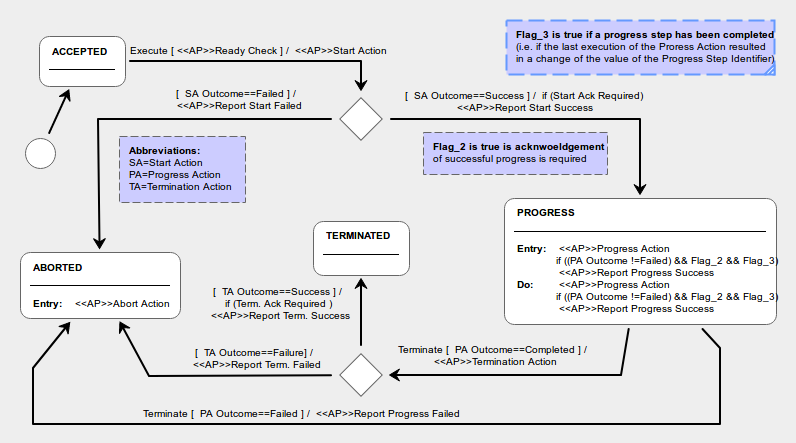
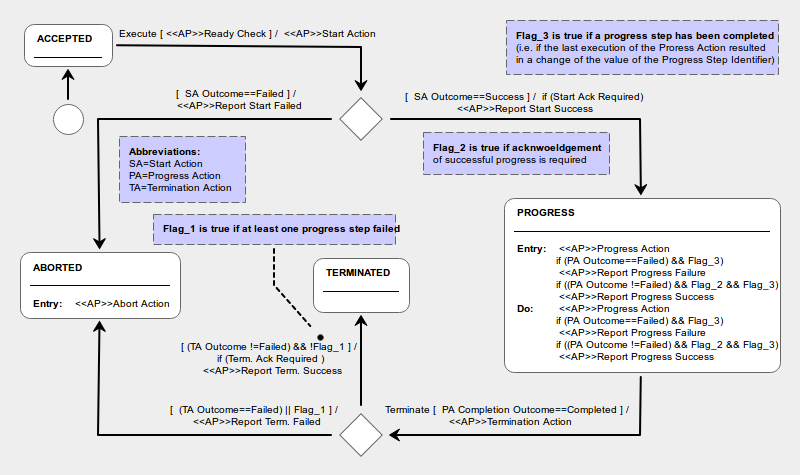
Modified management of progress action completion status (Issue #42)
The change in the logic for the progress action of an InCommand is driven by
the update of PUS. In the new PUS (April 2016), the progress action logic is
as follows.

During execution, the progress steps are executed in sequence and, if the step's
execution is successful, a (1,5) is generated; if, instead, the step's execution
has failed, a (1,6) is generated (assuming that the acknowledgement of
successful progress was enabled for the command). At the end of the execution of
all the steps, a (1,8) is generated if the command's post-conditions are not
satisfied or if any of its progress steps have failed. Otherwise, a (1,7) may be
generated if it was enabled for that command. Note that this means that
generation of a (1,8) does not necessarily mean that a command's execution has
completely failed. It may simply mean that some of its progress steps have
failed.

diff --git a/src/InCmd/CrFwInCmd.c b/src/InCmd/CrFwInCmd.c
@@ -107,17 +107,18 @@ static void ReportTerminationSuccess(FwSmDesc_t smDesc);
 static FwSmBool_t IsReady(FwSmDesc_t smDesc);
 
 /**
- * Guard on transition from PROGRESS to ABORTED.
+ * Guard on the transition from CPS2 to TERMINATED.
  * @param smDesc the descriptor of the InCommand state machine
- * @return 1 if the <code>outcome</code> field is different from 1 and 2; false otherwise.
+ * @return 1 if the outcome of the termination action was "success" and
+ *           no progress steps have failed
  */
-static FwSmBool_t IsSmOutcomeNotTwo(FwSmDesc_t smDesc);
+static FwSmBool_t IsTerminationSuccess(FwSmDesc_t smDesc);
 
 /* --------------------------------------------------------------------------------- */
 FwSmDesc_t CrFwInCmdMakeBase() {
 	FwSmCounterS1_t nOfStates = 4;				/* Number of states */
 	FwSmCounterS1_t nOfChoicePseudoStates = 2;	/* Number of choice pseudo-states */
-	FwSmCounterS1_t nOfTrans = 8;				/* Number of transitions */
+	FwSmCounterS1_t nOfTrans = 7;				/* Number of transitions */
 	FwSmCounterS1_t nOfActions = 9;				/* Number of actions */
 	FwSmCounterS1_t nOfGuards = 4;				/* Number of guards */
 	FwSmCounterS1_t CPS_1 = 1;					/* Identifier of first choice pseudo-state */
@@ -145,10 +146,8 @@ FwSmDesc_t CrFwInCmdMakeBase() {
 	FwSmAddTransCpsToSta(esm, CPS_1, CR_FW_INCMD_STATE_PROGRESS, &ReportStartSuccess, &CrFwIsSmOutcomeOne);
 	FwSmAddTransCpsToSta(esm, CPS_1, CR_FW_INCMD_STATE_ABORTED, &ReportStartFailed, NULL);	/* Else Guard */
 	FwSmAddTransStaToCps(esm, CR_FW_INCMD_TR_TERMINATE, CR_FW_INCMD_STATE_PROGRESS, CPS_2,
-	                     &DoTerminationAction, &CrFwIsSmOutcomeOne);
-	FwSmAddTransStaToSta(esm, CR_FW_INCMD_TR_TERMINATE, CR_FW_INCMD_STATE_PROGRESS, CR_FW_INCMD_STATE_ABORTED,
-	                     &ReportProgressFailed, &IsSmOutcomeNotTwo);
-	FwSmAddTransCpsToSta(esm, CPS_2, CR_FW_INCMD_STATE_TERMINATED, &ReportTerminationSuccess, &CrFwIsSmOutcomeOne);
+	                     &DoTerminationAction, &CrFwInCmdIsProgressActionCompleted);
+	FwSmAddTransCpsToSta(esm, CPS_2, CR_FW_INCMD_STATE_TERMINATED, &ReportTerminationSuccess, &IsTerminationSuccess);
 	FwSmAddTransCpsToSta(esm, CPS_2, CR_FW_INCMD_STATE_ABORTED, &ReportTerminationFailed, NULL);	/* Else Guard */
 
 	FwSmEmbed(baseInCmdSmDesc, CR_FW_BASE_STATE_CONFIGURED, esm);
@@ -210,6 +209,16 @@ CrFwPckt_t CrFwInCmdGetPcktFromPrDesc(FwPrDesc_t prDesc) {
     CrFwCmpData_t* cmpData = (CrFwCmpData_t*)FwPrGetData(prDesc);
     CrFwInCmdData_t* cmpSpecificData = (CrFwInCmdData_t*)(cmpData->cmpSpecificData);
     return cmpSpecificData->pckt;
+}
+
+/* --------------------------------------------------------------------------------- */
+FwSmBool_t IsTerminationSuccess(FwSmDesc_t smDesc) {
+    CrFwCmpData_t* cmpData = (CrFwCmpData_t*)FwSmGetData(smDesc);
+    CrFwInCmdData_t* cmpSpecificData = (CrFwInCmdData_t*)(cmpData->cmpSpecificData);
+    if (cmpData->outcome == 1)
+        if (cmpSpecificData->nOfFailedProgressSteps == 0)
+            return 1;
+    return 0;
 }
 
 /* --------------------------------------------------------------------------------- */
@@ -297,19 +306,26 @@ static void DoProgressAction(FwSmDesc_t smDesc) {
 	prevStep = cmpSpecificData->progressStepId;
 	cmpSpecificData->progressAction(smDesc);
 	if (cmpData->outcome != 1)
-		if (cmpData->outcome != 2)
-			return;		/* The Progress Action has failed */
+		if (cmpSpecificData->progressStepId != prevStep) {
+		    CrFwRepInCmdOutcome(crCmdAckPrgFail, cmpData->instanceId,
+		                        CrFwPcktGetServType(cmpSpecificData->pckt),
+		                        CrFwPcktGetServSubType(cmpSpecificData->pckt),
+		                        CrFwPcktGetDiscriminant(cmpSpecificData->pckt),
+		                        cmpData->outcome, smDesc);
+		    cmpSpecificData->nOfFailedProgressSteps++;  /* Increment counter of failed progress steps */
+		    return;     /* Progress step has failed */
+		}
 
-	/* Check if a progress step has been completed */
-	if (cmpSpecificData->progressStepId == prevStep)
-	    return;
-
-	if (CrFwPcktIsProgressAck(cmpSpecificData->pckt) == 1)
-		CrFwRepInCmdOutcome(crCmdAckPrgSucc, cmpData->instanceId,
-		                    CrFwPcktGetServType(cmpSpecificData->pckt),
-		                    CrFwPcktGetServSubType(cmpSpecificData->pckt),
-		                    CrFwPcktGetDiscriminant(cmpSpecificData->pckt),
-		                    cmpData->outcome, smDesc);
+    if (cmpData->outcome == 1)
+        if (cmpSpecificData->progressStepId != prevStep)
+            if (CrFwPcktIsProgressAck(cmpSpecificData->pckt) == 1) {
+                CrFwRepInCmdOutcome(crCmdAckPrgSucc, cmpData->instanceId,
+                                    CrFwPcktGetServType(cmpSpecificData->pckt),
+                                    CrFwPcktGetServSubType(cmpSpecificData->pckt),
+                                    CrFwPcktGetDiscriminant(cmpSpecificData->pckt),
+                                    cmpData->outcome, smDesc);
+                return; /* Progress step has succeeded */
+            }
 }
 
 /* --------------------------------------------------------------------------------- */
@@ -326,15 +342,6 @@ static void DoTerminationAction(FwSmDesc_t smDesc) {
 	CrFwInCmdData_t* cmpSpecificData = (CrFwInCmdData_t*)(cmpData->cmpSpecificData);
 
 	cmpSpecificData->terminationAction(smDesc);
-}
-
-/* --------------------------------------------------------------------------------- */
-static FwSmBool_t IsSmOutcomeNotTwo(FwSmDesc_t smDesc) {
-	CrFwCmpData_t* cmpData = (CrFwCmpData_t*)FwSmGetData(smDesc);
-	if (cmpData->outcome != 2)
-		return 1;
-
-	return 0;
 }
 
 /* --------------------------------------------------------------------------------- */
@@ -426,4 +433,25 @@ CrFwPckt_t CrFwInCmdGetPckt(FwSmDesc_t smDesc) {
 	CrFwCmpData_t* cmpData = (CrFwCmpData_t*)FwSmGetData(smDesc);
 	CrFwInCmdData_t* cmpSpecificData = (CrFwInCmdData_t*)(cmpData->cmpSpecificData);
 	return cmpSpecificData->pckt;
+}
+
+/* --------------------------------------------------------------------------------- */
+CrFwBool_t CrFwInCmdIsProgressActionCompleted(FwSmDesc_t smDesc) {
+    CrFwCmpData_t* cmpData = (CrFwCmpData_t*)FwSmGetData(smDesc);
+    CrFwInCmdData_t* cmpSpecificData = (CrFwInCmdData_t*)(cmpData->cmpSpecificData);
+    return cmpSpecificData->isProgressActionCompleted;
+}
+
+/* --------------------------------------------------------------------------------- */
+void CrFwInCmdSetProgressActionCompleted(FwSmDesc_t smDesc, CrFwBool_t progressActionCompleted) {
+    CrFwCmpData_t* cmpData = (CrFwCmpData_t*)FwSmGetData(smDesc);
+    CrFwInCmdData_t* cmpSpecificData = (CrFwInCmdData_t*)(cmpData->cmpSpecificData);
+    cmpSpecificData->isProgressActionCompleted = progressActionCompleted;
+}
+
+/* --------------------------------------------------------------------------------- */
+CrFwProgressStepId_t CrFwInCmdGetNOfFailedProgressSteps(FwSmDesc_t smDesc) {
+    CrFwCmpData_t* cmpData = (CrFwCmpData_t*)FwSmGetData(smDesc);
+    CrFwInCmdData_t* cmpSpecificData = (CrFwInCmdData_t*)(cmpData->cmpSpecificData);
+    return cmpSpecificData->nOfFailedProgressSteps;
 }

diff --git a/doc/cordetfw/CrFwCmdConcept.tex b/doc/cordetfw/CrFwCmdConcept.tex
@@ -54,7 +54,7 @@ Every time a user application issues a command belonging to a certain destinatio
 Command execution goes through four stages: acceptance, start, progress, and termination (see section 5.1.4). This attribute determines whether successful completion of each of these stages should be reported to the sender of the command. Note that failure to complete a stage is reported unconditionally.
 
 \item[Progress Step Identifier]\hfill\\
-On the service provider side, a command is executed in a sequence of progress steps. Each progress step is identified by a positive integer (but note that step identifiers are not necessarily in sequence). This attributes holds the identifier of the current step. A command must have at least one step. This attribute is only meaningful on the service provider side.
+On the service provider side, a command is executed in a sequence of progress steps. Each progress step is identified by a positive integer (but note that step identifiers are not necessarily in sequence). This attribute holds the identifier of the current step. A command must have at least one step. This attribute is only meaningful on the service provider side.
 
 \item[Command Parameters]\hfill\\
 Some commands may require parameters to fully specify the actions and checks that they encapsulate. The “Command Parameters” attribute holds the value of these parameters. This attribute consists of an ordered sequence of items of primitive type. 
@@ -115,9 +115,11 @@ The following actions are defined for a command on the service provider side:
 The start action is executed after the start check has been passed. The start action encapsulates one-off initialization actions that must be performed at the beginning of a command's execution. 
 The start action has an outcome which is either “success” or “failed”. If the outcome of the start action is “failed”, the command is aborted. 
 \item[Progress Action]\hfill\\
-Commands execute in one or more execution steps. The progress action encapsulates the actions performed in one execution step. The progress action is executed the first time after the start action has terminated and it is then executed again until either it fails or it completes. 
-The progress action has an outcome which is either “continue”, or “completed”, or “failed”. If the outcome of the progress action is “continue”, another execution step will be executed. If the outcome of the progress action is “completed”, all execution steps have been completed and the termination action is executed. If the outcome of the progress action is “failed”, the command is aborted. 
-The progress action updates the progress step identifier. A "progress step" is a set of logically related execution steps which are executed in sequence.
+Commands execute in one or more execution steps. The progress action encapsulates the actions performed in one execution step. The progress action is executed the first time after the start action has terminated and it is then executed again until either it fails or it completes.
+ 
+The progress action has two outcomes: a completion outcome which can be either "completed" or "not completed" and a success outcome which can be either "success" or "failed". If the completion outcome is "completed", then all execution steps have been completed and the termination action is executed. If, instead, it is "not completed", then another execution step will be executed. The success outcome determines the kind of acknowledge reports which are generated for the progress action. 
+
+Finally, the progress action updates the progress step identifier. A "progress step" is a set of logically related execution steps which are executed in sequence.
 \item[Termination Action]\hfill\\
 The termination action is executed after all the progress steps have been successfully executed. The termination action encapsulates one-off finalization actions that must be performed before the command is terminated.
 The termination action has an outcome which is either “success” or “failed”. If the outcome of the termination action is “failed”, the command is aborted. 

diff --git a/doc/cordetfw/CrFwInCommand.tex b/doc/cordetfw/CrFwInCommand.tex
@@ -19,11 +19,11 @@ If the Ready Check is failed (i.e. if the Ready Check indicates that the command
 
 If the Ready Check is passed (i.e. if the Ready Check indicates that the command is ready to start execution), the command executes the Start Action and, depending on its outcome, it makes a transition either to state ABORTED or to state PROGRESS.  
 
-In state PROGRESS, the command executes its Progress Action. If the outcome of the Progress Action is “continue” (indicating that the command has not yet completed execution), the InCommand remains in state PROGRESS. If, instead, the outcome of the Progress Action is “completed” (indicating that the command has completed execution), then the InCommand moves to state TERMINATED. If, finally, the outcome of the Progress Action is “failed” (indicating that the command has encountered a failure), then the InCommand moves to state ABORTED. 
+In state PROGRESS, the command executes its Progress Action. If the completion outcome of the Progress Action is not completed” (indicating that the command has not yet completed execution), the InCommand remains in state PROGRESS. If, instead, the completiong outcome of the Progress Action is “completed” (indicating that all progress steps have been executed), then the InCommand moves out of the PROGRESS state and executes its termination action. The outcome of the termination action determines whether the command enters TERMINATED (to indicate a nominal end of the command) or ABORTED (to indicate that either one or more of its progress steps or its termination actions have failed).  
 
 The Progress Action is responsible for updating the Progress Step Identifier. A change in the value of this identifier marks the end of a Progress Step. A Progress step is a set logically related execution steps which are executed in sequence.
 
-If the command is neither terminated nor aborted in the first Execute-Terminate cycle, it will be sent further pairs of Execute-Terminate commands by its InManager and will repeat the behaviour described in the previous paragraph.  
+If the command is neither terminated nor aborted in the first Execute-Terminate cycle, it will be sent further pairs of Execute-Terminate commands by its InManager and will repeat the behaviour described in the previous paragraphs.  
 
 The InCommand component is responsible for generating acknowledge reports when: the command starts execution; a progress step has failed or has been completed; or its execution terminates. The generation of the acknowledge reports is an adaptation point for the InCommand. Note that the acknowledge report for the command acceptance is generated by the InLoader component, see section \ref{sec:InLoader}.
 

diff --git a/src/InCmd/CrFwInCmd.h b/src/InCmd/CrFwInCmd.h
@@ -151,6 +151,54 @@ CrFwProgressStepId_t CrFwInCmdGetProgressStepId(FwSmDesc_t smDesc);
 void CrFwInCmdSetProgressStepId(FwSmDesc_t smDesc, CrFwProgressStepId_t stepId);
 
 /**
+ * Return the Completion Outcome of the progress action.
+ * The progress action is executed in steps.
+ * If the completion outcome is set to 0, then at least one more execution
+ * step must be run before the progress action can be deemed to be completed.
+ * If, instead, the completion outcome is set to 1 or other non-zero value,
+ * then the most recently executed step was
+ * the last step and the progress action is completed.
+ *
+ * At framework level, the Completion Outcome is initialized to 1 and
+ * is never updated afterwards.
+ * This means that, by default, the progress action of an incoming command is completed
+ * in one single execution step.
+ * Applications would normally set the Completiong Outcome in the Progress Action.
+ * @param smDesc the descriptor of the Base State Machine of the InCommand
+ * @return the completion outcome
+ */
+CrFwBool_t CrFwInCmdIsProgressActionCompleted(FwSmDesc_t smDesc);
+
+/**
+ * Set the Completion Outcome of the progress action.
+ * This function would typically be used by the InCommand's Progress Action.
+ * @param smDesc the descriptor of the Base State Machine of the InCommand
+ * @param progressActionCompleted the completion outcome
+ */
+void CrFwInCmdSetProgressActionCompleted(FwSmDesc_t smDesc, CrFwBool_t progressActionCompleted);
+
+/**
+ * Set the Completion Outcome of the progress action.
+ * This function would typically be used by the InCommand's Progress Action.
+ * @param smDesc the descriptor of the Base State Machine of the InCommand
+ * @param progressActionCompleted the completion outcome
+ */
+void CrFwInCmdSetProgressActionCompleted(FwSmDesc_t smDesc, CrFwBool_t progressActionCompleted);
+
+/**
+ * Return the number of progress steps which have failed.
+ * The progress action is executed in steps.
+ * The execution of a progress step can either succeed or fail.
+ * This function returns the number of progress steps which failed.
+ *
+ * The number of progress steps which failed is initialized to zero when the InCommand is
+ * instantiated and is incremented by 1 every time a progress step has a "failed" outcome.
+ * @param smDesc the descriptor of the Base State Machine of the InCommand
+ * @return the number of progress steps which have failed.
+ */
+CrFwProgressStepId_t CrFwInCmdGetNOfFailedProgressSteps(FwSmDesc_t smDesc);
+
+/**
  * Return the source of the InCommand.
  * @param smDesc the descriptor of the Base State Machine of the InCommand
  * @return the source of the InCommand

diff --git a/tests/CrFwInCmdSample1.h b/tests/CrFwInCmdSample1.h
@@ -113,6 +113,8 @@ CrFwCounterU1_t CrFwInCmdSample1GetStartActionCounter();
  * - it increments the progress step identifier if the progress step flag is set
  *   (its value is controlled through function
  *   <code>::CrFwInCmdSample1SetProgressActionFlag</code>.
+ * - it sets the progress action completion outcome to the value of the flag
+ *   set with <code>::CrFwInCmdSample1SetProgressActionCompletionOutcome</code>.
  * .
  * @param smDesc the descriptor of the InCommand state machine
  */
@@ -127,11 +129,18 @@ void CrFwInCmdSample1ProgressAction(FwSmDesc_t smDesc);
 void CrFwInCmdSample1SetProgressStepFlag(CrFwBool_t flag);
 
 /**
- * Set the value of the Progress Action Outcome Counter
+ * Set the value of the Progress Action Outcome
  * (see <code>::CrFwInCmdSample1ProgressAction</code>).
  * @param outcome the value of the Progress Action Outcome
  */
 void CrFwInCmdSample1SetProgressActionOutcome(CrFwOutcome_t outcome);
+
+/**
+ * Set the value of the Progress Action Completion Outcome
+ * (see <code>::CrFwInCmdSample1ProgressAction</code>).
+ * @param outcome the value of the Progress Action Completion Outcome
+ */
+void CrFwInCmdSample1SetProgressActionCompletionOutcome(CrFwOutcome_t outcome);
 
 /**
  * Get the value of the Progress Action Counter (see <code>::CrFwInCmdSample1ProgressAction</code>).

diff --git a/tests/CrFwInCmdSample1.c b/tests/CrFwInCmdSample1.c
@@ -51,6 +51,9 @@ static CrFwOutcome_t startOutcome;
 /** The Progress Action Outcome. */
 static CrFwOutcome_t progressOutcome;
 
+/** The Progress Action Completion Outcome. */
+static CrFwOutcome_t progressCompletionOutcome;
+
 /** The Progress Step Flag. */
 static CrFwBool_t progressStepFlag ;
 
@@ -131,11 +134,17 @@ void CrFwInCmdSample1ProgressAction(FwSmDesc_t smDesc) {
 	    CrFwInCmdSetProgressStepId(smDesc,progressStepId+1);
 
 	progressCounter++;
+	CrFwInCmdSetProgressActionCompleted(smDesc, progressCompletionOutcome);
 }
 
 /*-----------------------------------------------------------------------------------------*/
 void CrFwInCmdSample1SetProgressActionOutcome(CrFwOutcome_t outcome) {
 	progressOutcome = outcome;
+}
+
+/*-----------------------------------------------------------------------------------------*/
+void CrFwInCmdSample1SetProgressActionCompletionOutcome(CrFwOutcome_t outcome) {
+    progressCompletionOutcome = outcome;
 }
 
 /*-----------------------------------------------------------------------------------------*/

diff --git a/src/CrFwConstants.h b/src/CrFwConstants.h
@@ -34,6 +34,9 @@ typedef int CrFwBool_t;
 /** Type for the index of a command or report in the InRegistry or OutRegistry. */
 typedef unsigned short CrFwCmdRepIndex_t;
 
+/** Type for the Progress Step Identifier of an InCommand */
+typedef unsigned short CrFwProgressStepId_t;
+
 /** Type for packets (see <code>CrFwPckt.h</code>). Packets are treated as arrays of bytes. */
 typedef char* CrFwPckt_t;
 
@@ -478,6 +481,15 @@ typedef struct InCmdData {
 	CrFwInCmdAbortAction_t abortAction;
 	/** The progress step identifier **/
 	CrFwProgressStepId_t progressStepId;
+	/**
+	 * Flag indicating whether the progress action has been completed.
+	 * An InCommand sets the flag to false at entry in the PROGRESS state.
+	 * The progress action must set it to true when all progress steps have
+	 * been completed.
+	 */
+	CrFwBool_t isProgressActionCompleted;
+    /** Number of progress steps which failed **/
+    CrFwProgressStepId_t nOfFailedProgressSteps;
 	/** Packet holding the InCommand */
 	CrFwPckt_t pckt;
 } CrFwInCmdData_t;

diff --git a/src/InFactory/CrFwInFactory.h b/src/InFactory/CrFwInFactory.h
@@ -137,6 +137,10 @@ FwSmDesc_t CrFwInFactoryMakeInRep(CrFwPckt_t pckt);
  * The configuration information is retrieved from <code>CrFwInFactoryUserPar</code>.
  *
  * The Progress Step of the InCommands returned by this function is initialized to 1.
+ * Likewise, the completion status of the progress action of the InCommand is initialized
+ * to 1 indicating "completed" (this results in an InCommand whose progress action is
+ * only executed once).
+ * The counter of failed progress steps is initialized to zero.
  *
  * If the allocation of the memory for the new InCommand fails, the function
  * returns NULL.

diff --git a/doc/cordetfw/cordetfw.tex b/doc/cordetfw/cordetfw.tex
@@ -329,9 +329,9 @@ This section lists the changes made in the current revision. Changes are classif
 \textbf{Section} & \textbf{Type} & \textbf{Description} \\
 \hline\hline
 \endhead
-4.1 & C & Added Progress Step Identifier attribute to commands \\
+4.1 & C & Added Progress Step Identifier attribute to commands and modifed outcomes of progress action \\
 \hline
-6.2.3 & C Added management of Progress Step Identifier \\
+6.2.3 & C & Added management of Progress Step Identifier and modified management logic of progress action \\
 \hline
 \end{longtable}
 

diff --git a/src/InFactory/CrFwInFactory.c b/src/InFactory/CrFwInFactory.c
@@ -226,6 +226,8 @@ FwSmDesc_t CrFwInFactoryMakeInCmd(CrFwPckt_t pckt) {
 	inCmdCmpSpecificData[freePos].isValid = inCmdKindDesc[kindIndex].isValid;
 	inCmdCmpSpecificData[freePos].factoryPoolIndex = freePos;
 	inCmdCmpSpecificData[freePos].progressStepId = 1;
+	inCmdCmpSpecificData[freePos].isProgressActionCompleted = 1;
+	inCmdCmpSpecificData[freePos].nOfFailedProgressSteps = 0;
 	inCmdCmpSpecificData[freePos].pckt = pckt;
 
 	/* Reset the InCommand */
